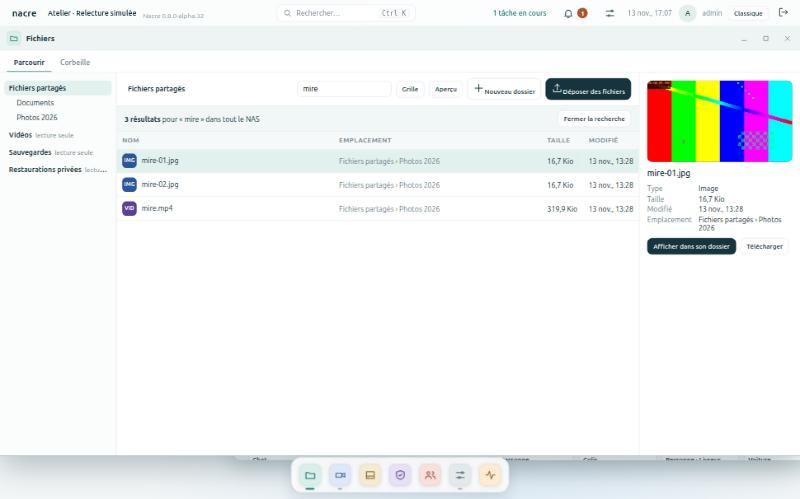
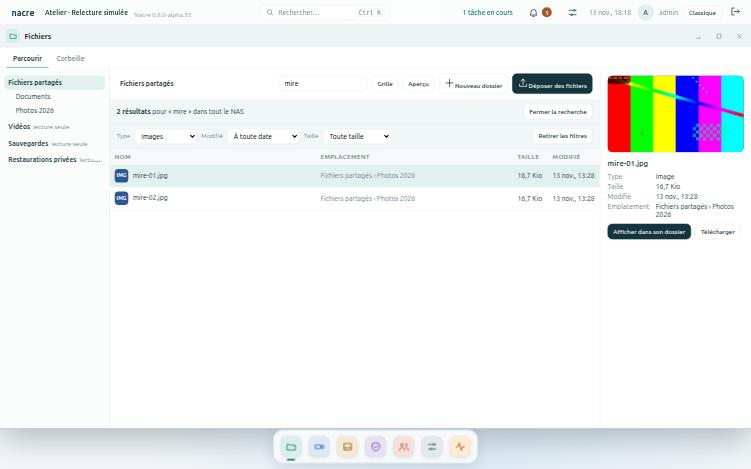
Filtres de la recherche de fichiers (0.8.0-alpha.36) (#70)
Les résultats d'une recherche par nom s'affinent par trois listes : Type,
Modifié, Taille. Un choix relance la même recherche, même nom et même
portée ; les filtres se combinent.

- serveur : paramètres kind, days et min_size de /api/files/search.
  Famille de type d'après l'extension (KINDS), jamais le contenu ; date et
  taille lues seulement pour les éléments dont le nom correspond. Un
  dossier écarté par un filtre reste parcouru. Valeurs mal formées
  refusées.
- Fichiers : ligne de filtres sous le titre des résultats, inactive
  pendant la recherche ; « Retirer les filtres » ; un affinage refusé
  laisse les résultats précédents ; une nouvelle recherche repart sans
  filtre.

Aucun changement de schéma ni de module figé.
321 tests Python et 128 JavaScript.

diff --git a/console/static/files.js b/console/static/files.js
@@ -52,18 +52,26 @@ function fmAsk(){
  if(!fmFindable())return '';
  return `<div class="fm-find"><span>Filtre sur ce dossier. Chercher ce nom ailleurs :</span><span class="fm-grow"></span>${button('fm-find',currentPath?'Dans ses sous-dossiers':'Dans cet espace',null,'small','data-scope="here"')}${button('fm-find','Dans tout le NAS',null,'primary small','data-scope="all"')}</div>`;
 }
+// Filtres des résultats : [paramètre de la recherche, libellé, choix]. Le choix vide ne filtre pas.
+const FM_REFINE=[['kind','Type',[['','Tous les types'],['folder','Dossiers'],['image','Images'],['video','Vidéos'],['audio','Sons'],['document','Documents'],['archive','Archives']]],
+ ['days','Modifié',[['','À toute date'],['1','Depuis 24 heures'],['7','Depuis 7 jours'],['30','Depuis 30 jours'],['365','Depuis un an']]],
+ ['min_size','Taille',[['','Toute taille'],['1048576','Plus de 1 Mio'],['104857600','Plus de 100 Mio'],['1073741824','Plus de 1 Gio']]]];
+function fmRefined(filters){return FM_REFINE.some(([key])=>filters?.[key]);}
+function fmRefineRow(filters,busy){
+ return `<div class="fm-find fm-refine" role="group" aria-label="Affiner les résultats">${FM_REFINE.map(([key,label,choices])=>`<label for="fm-ref-${key}">${label}</label><select id="fm-ref-${key}" data-refine="${key}"${busy?' disabled':''}>${choices.map(([value,text])=>`<option value="${value}"${(filters?.[key]||'')===value?' selected':''}>${text}</option>`).join('')}</select>`).join('')}<span class="fm-grow"></span>${fmRefined(filters)&&!busy?button('fm-refine-clear','Retirer les filtres',null,'small'):''}</div>`;
+}
 function fmFoundList(){
- const {query,where,items,partial,visited,skipped,limit}=fmFound;
+ const {query,where,items,partial,visited,skipped,limit,filters}=fmFound;
  const place=where?(where.path?`dans « ${where.path.split('/').pop()} » et ses sous-dossiers`:`dans ${fmAreaName(where.area)}`):'dans tout le NAS';
  const head=text=>`<div class="fm-find"><span>${text}</span><span class="fm-grow"></span>${button('fm-find-close','Fermer la recherche',null,'small')}</div>`;
- if(!items)return head(`Recherche de « ${esc(query)} » ${esc(place)}…`)+'<p class="fm-hint">Recherche en cours…</p>';
+ if(!items)return head(`Recherche de « ${esc(query)} » ${esc(place)}…`)+fmRefineRow(filters,true)+'<p class="fm-hint">Recherche en cours…</p>';
  const notes=[];
- if(partial==='results')notes.push(`Seuls les ${limit} premiers résultats sont affichés : précisez le nom.`);
+ if(partial==='results')notes.push(`Seuls les ${limit} premiers résultats sont affichés : précisez le nom, ou affinez par type, date ou taille.`);
  else if(partial)notes.push(`Recherche arrêtée après ${visited.toLocaleString('fr-FR')} éléments parcourus : tout n’a pas été vu. Cherchez depuis un dossier pour aller plus loin.`);
  if(skipped.length)notes.push(`Espace indisponible, non parcouru : ${skipped.map(fmAreaName).join(', ')}.`);
  const note=notes.map(text=>`<p class="fm-note">${esc(text)}</p>`).join('');
- const title=head(`<strong>${items.length} résultat${items.length>1?'s':''}</strong> pour « ${esc(query)} » ${esc(place)}`);
- if(!items.length)return title+note+empty(where?'Aucun nom ne correspond ici. Essayez dans tout le NAS.':'Aucun fichier ni dossier ne porte ce nom. Les restaurations ne sont parcourues que depuis leur espace.','folder');
+ const title=head(`<strong>${items.length} résultat${items.length>1?'s':''}</strong> pour « ${esc(query)} » ${esc(place)}`)+fmRefineRow(filters,false);
+ if(!items.length)return title+note+empty(fmRefined(filters)?'Aucun résultat avec ces filtres.':where?'Aucun nom ne correspond ici. Essayez dans tout le NAS.':'Aucun fichier ni dossier ne porte ce nom. Les restaurations ne sont parcourues que depuis leur espace.','folder');
  return title+note+`<table class="fm-table fm-hits"><thead><tr><th>Nom</th><th>Emplacement</th><th>Taille</th><th>Modifié</th></tr></thead><tbody>${items.map((item,index)=>`<tr class="fm-hit ${index===fmHit?'sel':''}" data-hit="${index}"><td>${fmIcon(item)}${esc(item.name)}</td><td>${esc(fmAreaName(item.area)+(item.path?' › '+item.path.split('/').join(' › '):''))}</td><td>${item.directory?'—':sizes(item.size)}</td><td>${date(item.modified)}</td></tr>`).join('')}</tbody></table>`;
 }
 function fmList(){
@@ -133,19 +141,24 @@ async function renderFileManager(){
 }
 function fmQueue(text){fmPending=String(text||'').trim().slice(0,80);}
 // Recherche par nom, lancée à la demande : dans le dossier ouvert et ses sous-dossiers (« here ») ou dans tous les espaces.
-async function fmFind(scope){
- const text=fmFilter.trim();
- if(!fmFindable())return toast('Saisissez au moins deux caractères du nom recherché.',true);
- const generation=sessionGeneration,request=++fmFindRequest,where=scope==='here'?{area,path:currentPath}:null;
+// Avec « refine », la même recherche est relancée avec d’autres filtres : nom et portée ne changent pas.
+async function fmFind(scope,refine=null){
+ const before=refine?fmFound:null;
+ if(refine?!before?.items:!fmFindable())return refine?undefined:toast('Saisissez au moins deux caractères du nom recherché.',true);
+ const text=before?before.query:fmFilter.trim(),where=before?before.where:scope==='here'?{area,path:currentPath}:null;
+ // Seuls les filtres réellement choisis sont gardés.
+ const filters=Object.fromEntries(FM_REFINE.map(([key])=>[key,String(refine?.[key]||'')]).filter(([,value])=>value));
+ const generation=sessionGeneration,request=++fmFindRequest;
  const current=()=>generation===sessionGeneration&&request===fmFindRequest&&page==='files'&&!!fmFound;
- fmSel.clear();fmHit=-1;fmFound={query:text,where,items:null};fmRedraw();
+ fmSel.clear();fmHit=-1;fmFound={query:text,where,filters,items:null};fmRedraw();
  let data;
- try{data=await api('files/search?q='+encodeURIComponent(text)+(where?`&area=${encodeURIComponent(where.area)}&path=${encodeURIComponent(where.path)}`:''));}
- catch(error){if(current()){fmFound=null;fmRedraw();}throw error;}
+ try{data=await api('files/search?q='+encodeURIComponent(text)+(where?`&area=${encodeURIComponent(where.area)}&path=${encodeURIComponent(where.path)}`:'')+FM_REFINE.map(([key])=>filters[key]?`&${key}=${encodeURIComponent(filters[key])}`:'').join(''));}
+ // Une recherche refusée ramène au dossier ; un affinage refusé laisse les résultats précédents.
+ catch(error){if(current()){fmFound=before;fmRedraw();}throw error;}
  if(!current())return;
  // Ne sont gardés que les résultats bien formés, dans un espace que ce compte voit.
  const items=(Array.isArray(data?.items)?data.items:[]).filter(i=>i&&typeof i.name==='string'&&i.name&&typeof i.path==='string'&&fileAreas.some(a=>a.id===i.area));
- fmFound={query:text,where,items,partial:typeof data?.partial==='string'?data.partial:'',visited:Number(data?.visited)||0,skipped:(Array.isArray(data?.skipped)?data.skipped:[]).filter(x=>typeof x==='string'),limit:Number(data?.limit)||items.length};
+ fmFound={query:text,where,filters,items,partial:typeof data?.partial==='string'?data.partial:'',visited:Number(data?.visited)||0,skipped:(Array.isArray(data?.skipped)?data.skipped:[]).filter(x=>typeof x==='string'),limit:Number(data?.limit)||items.length};
  fmRedraw();
 }
 function fmFindClose(){fmFindRequest++;fmFound=null;fmHit=-1;fmRedraw();}
@@ -214,6 +227,7 @@ document.addEventListener('click',async e=>{
    if(action==='fm-move')return fmAskMove();
    if(action==='fm-find')return await fmFind(el.dataset.scope==='here'?'here':'all');
    if(action==='fm-find-close')return fmFindClose();
+   if(action==='fm-refine-clear')return await fmFind('',{});
    if(action==='fm-reveal')return await fmReveal(fmFound?.items?.[fmHit],el.dataset.inside==='1');
    return;
   }
@@ -236,6 +250,13 @@ document.addEventListener('dblclick',e=>{
 });
 // Retoucher le champ quitte les résultats : on revient au dossier, filtré par la saisie.
 document.addEventListener('input',e=>{if(e.target?.id==='fm-filter'&&page==='files'){fmFilter=e.target.value;fmSel.clear();if(fmFound){fmFindRequest++;fmFound=null;fmHit=-1;}fmRedraw();}});
+// Un filtre choisi relance la même recherche ; le choix doit être l’un de ceux proposés.
+document.addEventListener('change',e=>{
+ const key=e.target?.dataset?.refine;if(!key||page!=='files'||!fmFound?.items)return;
+ const value=String(e.target.value||''),id=e.target.id;
+ if(!FM_REFINE.find(r=>r[0]===key)?.[2].some(choice=>choice[0]===value))return;
+ return fmFind('',{...fmFound.filters,[key]:value}).then(()=>$('#'+id)?.focus?.()).catch(error=>{if(error.name!=='AbortError')toast(error.message,true);});
+});
 document.addEventListener('change',e=>{if(e.target?.id==='fm-upload'){const files=[...(e.target.files||[])];e.target.value='';fmSend(files).catch(error=>toast(error.message,true));}});
 document.addEventListener('keydown',e=>{
  if(page!=='files'||!$('#fm')||$('#modal')?.open)return;

diff --git a/tests/test_frontend.js b/tests/test_frontend.js
@@ -1657,6 +1657,39 @@ test('a name search says when it stopped early, drops a late or refused answer a
  // Naviguer dans l'arborescence quitte la recherche.
  f.run('fmFilter="été";');await f.run('fmFind("all")');assert.notEqual(f.run('fmFound'),null);await f.run('fmGo("video","")');assert.deepEqual([f.run('fmFound'),f.run('fmFilter')],[null,'']);
 });
+test('search results can be narrowed by kind, date and size without changing the name or the scope',async()=>{
+ const f=findFixture();await f.run('renderFiles()');f.mount();f.run('currentPath="Docs & co";');f.type('été');
+ const pick=(key,value,id='fm-ref-'+key)=>f.listeners.get('change').at(-2)({target:{dataset:{refine:key},value,id}});
+ const filters=()=>JSON.parse(JSON.stringify(f.run('fmFound&&fmFound.filters')));
+ await f.at('[data-action]',{action:'fm-find',scope:'here'});
+ // Trois listes sous le titre, aucune active, pas de bouton de retrait.
+ assert.match(f.list(),/class="fm-find fm-refine" role="group" aria-label="Affiner les résultats"><label for="fm-ref-kind">Type<\/label><select id="fm-ref-kind" data-refine="kind">/);
+ assert.match(f.list(),/<option value="" selected>Tous les types<\/option><option value="folder">Dossiers<\/option>/);assert.match(f.list(),/id="fm-ref-days" data-refine="days">.*Depuis 7 jours/);assert.match(f.list(),/id="fm-ref-min_size" data-refine="min_size">.*Plus de 1 Gio/);
+ assert.doesNotMatch(f.list(),/fm-refine-clear|style=/);assert.deepEqual(filters(),{});
+ // Un choix relance la même recherche avec le filtre ; le suivant s'ajoute ; nom et portée ne bougent pas.
+ const focused=[];f.elements.set('#fm-ref-kind',{focus(){focused.push('kind');}});
+ await pick('kind','image');
+ assert.equal(f.searches().at(-1),'/api/files/search?q=%C3%A9t%C3%A9&area=fichiers&path=Docs%20%26%20co&kind=image');assert.deepEqual(filters(),{kind:'image'});assert.deepEqual(focused,['kind']);
+ assert.match(f.list(),/<option value="image" selected>Images<\/option>/);assert.match(f.list(),/data-action="fm-refine-clear"/);assert.match(f.list(),/pour « été » dans « Docs &amp; co » et ses sous-dossiers/);
+ await pick('days','7');await pick('min_size','1048576');
+ assert.equal(f.searches().at(-1),'/api/files/search?q=%C3%A9t%C3%A9&area=fichiers&path=Docs%20%26%20co&kind=image&days=7&min_size=1048576');
+ // Revenir au choix vide retire ce filtre seul ; une valeur qui n'est pas proposée ou une clé inconnue ne lance rien.
+ await pick('days','');assert.match(f.searches().at(-1),/&kind=image&min_size=1048576$/);
+ const count=f.searches().length;await pick('kind','exe');await pick('days','8');await pick('autre','1');f.listeners.get('change').at(-2)({target:{id:'fm-upload',files:[]}});assert.equal(f.searches().length,count);
+ // Aucun résultat avec des filtres : le message le dit ; plafond atteint : les filtres sont suggérés.
+ f.state.answer={items:[],partial:null,visited:9,skipped:[],limit:200};await pick('kind','archive');assert.match(f.list(),/Aucun résultat avec ces filtres\./);
+ f.state.answer={items:fmHits.slice(0,1),partial:'results',visited:9,skipped:[],limit:200};await pick('kind','');assert.match(f.list(),/précisez le nom, ou affinez par type, date ou taille\./);
+ // Pendant la recherche, les listes sont inactives et un autre choix est ignoré.
+ let release;f.state.hold=new Promise(resolve=>{release=resolve;});const slow=pick('kind','video');
+ assert.match(f.list(),/data-refine="kind" disabled>/);assert.doesNotMatch(f.list(),/fm-refine-clear/);const during=f.searches().length;await pick('days','30');assert.equal(f.searches().length,during);
+ release();await slow;f.state.hold=null;assert.deepEqual(filters(),{kind:'video',min_size:'1048576'});
+ // Un affinage refusé laisse les résultats précédents ; retirer les filtres relance sans aucun.
+ f.state.status=429;await pick('kind','audio');assert.deepEqual(filters(),{kind:'video',min_size:'1048576'});assert.match(f.elements.get('#toast').textContent,/Deux recherches/);assert.match(f.list(),/fm-hit/);
+ f.state.status=0;await f.at('[data-action]',{action:'fm-refine-clear'});assert.equal(f.searches().at(-1),'/api/files/search?q=%C3%A9t%C3%A9&area=fichiers&path=Docs%20%26%20co');assert.deepEqual(filters(),{});
+ // Une nouvelle recherche repart sans filtre ; hors recherche, un choix ne fait rien.
+ await pick('kind','image');f.type('ét');assert.equal(f.run('fmFound'),null);const idle=f.searches().length;await pick('kind','video');assert.equal(f.searches().length,idle);
+ f.type('été');await f.at('[data-action]',{action:'fm-find',scope:'all'});assert.equal(f.searches().at(-1),'/api/files/search?q=%C3%A9t%C3%A9');assert.deepEqual(filters(),{});
+});
 test('global search offers to look a name up in the files from two characters, and hands it to the Files application',async()=>{
  const f=paletteFixture();f.key('k',{ctrlKey:true});await new Promise(resolve=>setImmediate(resolve));
  // Sans le gestionnaire de fichiers chargé, rien n'est proposé.

diff --git a/console/static/style.css b/console/static/style.css
@@ -119,6 +119,7 @@ dialog:has(#notification-smtp:not([hidden])){width:min(740px,calc(100% - 30px));
 .fm-table th{position:sticky;top:0;background:#f6f9f9;font-size:12px;font-weight:600;color:var(--muted);text-transform:uppercase;letter-spacing:.05em;cursor:pointer;user-select:none}.fm-bar+.fm-table th{top:46px}
 .fm-row,.fm-hit{cursor:default}.fm-row:hover,.fm-hit:hover{background:#f1f6f5}.fm-row.sel,.fm-hit.sel{background:#e2f1ee}
 .fm-find{display:flex;flex-wrap:wrap;align-items:center;gap:8px;padding:8px 14px;background:#f1f7f6;border-bottom:1px solid var(--line);font-size:13px;color:#233b43}.fm-note{margin:0;padding:8px 14px;font-size:12px;color:#6b4e0c;background:#fdf6e3;border-bottom:1px solid #f0e2bb}
+.fm-refine label{font-size:12px;color:var(--muted)}.fm-refine select{font:inherit;font-size:13px;width:auto;padding:5px 8px;border:1px solid var(--line);border-radius:8px;background:white}
 .fm-hits th{cursor:default}.fm-table.fm-hits td:nth-child(1){width:52%;white-space:normal;word-break:break-word}.fm-table.fm-hits td:nth-child(2){width:48%;white-space:normal;word-break:break-word;color:var(--muted)}
 .fm-ic{display:inline-grid;place-items:center;width:26px;height:26px;border-radius:7px;margin-right:9px;font-size:10px;font-weight:700;color:white;vertical-align:middle;background:#8a9aa0}.fm-dir{background:#147d73}.fm-img{background:#2c5796}.fm-vid{background:#5a3f93}.fm-pdf{background:#a8562b}.fm-txt{background:#5f747c}.fm-zip{background:#80591a}.fm-lnk{background:#b08a2e}
 .fm-grid{display:grid;grid-template-columns:repeat(auto-fill,minmax(120px,1fr));gap:10px;padding:14px}.fm-cell{border:1px solid var(--line);border-radius:10px;padding:10px;text-align:center;font-size:13px;overflow:hidden;word-break:break-word}.fm-cell.sel{border-color:var(--green)}.fm-cell .fm-ic{width:54px;height:54px;border-radius:12px;font-size:14px;margin:0 0 6px}.fm-cell small{display:block;color:var(--muted);font-size:12px}

diff --git a/console/file_search.py b/console/file_search.py
@@ -3,6 +3,9 @@
 Parcours direct, sans index : rien à tenir à jour, rien d'écrit sur le NAS. En contrepartie le parcours est borné
 (éléments visités, durée, résultats) et dit quand il s'arrête avant la fin. Il ne suit aucun lien, ignore les noms
 cachés et ne lit jamais le contenu des fichiers.
+
+Trois filtres facultatifs resserrent les résultats : famille de type (d'après l'extension), modification récente, taille
+minimale. Ils s'appliquent après le nom : seuls les éléments dont le nom correspond sont examinés.
 """
 import os
 import threading
@@ -14,6 +17,16 @@ VISITED = 200_000
 SECONDS = 4.0
 DEPTH = 64
 QUERY = 80
+DAYS = 36500
+SIZE = 1 << 50
+# Familles de types, d'après l'extension seulement : le contenu n'est jamais lu.
+KINDS = {
+    'image': ('.jpg', '.jpeg', '.png', '.gif', '.webp', '.heic', '.bmp', '.tif', '.tiff', '.svg'),
+    'video': ('.mp4', '.webm', '.mkv', '.mov', '.avi', '.m4v'),
+    'audio': ('.mp3', '.flac', '.wav', '.ogg', '.m4a', '.aac'),
+    'document': ('.pdf', '.doc', '.docx', '.odt', '.xls', '.xlsx', '.ods', '.ppt', '.pptx', '.odp', '.txt', '.md', '.csv', '.rtf'),
+    'archive': ('.zip', '.tar', '.gz', '.tgz', '.7z', '.rar', '.bz2', '.xz'),
+}
 # Deux parcours à la fois au plus : une recherche ne doit pas monopoliser les disques.
 _slots = threading.BoundedSemaphore(2)
 
@@ -25,6 +38,23 @@ class _Stop(Exception):
 def norm(text):
     """Sans accents ni casse : « ete » trouve « Été »."""
     return ''.join(c for c in unicodedata.normalize('NFD', text) if not unicodedata.combining(c)).casefold()
+
+
+def wanted_kind(kind, plain, directory, link):
+    if kind is None:
+        return True
+    if kind == 'folder':
+        return directory
+    return not directory and not link and plain.endswith(KINDS[kind])
+
+
+def whole(app, text, most, message):
+    """Entier strictement positif et borné, ou None si le filtre est absent."""
+    if text is None or text == '':
+        return None
+    if not isinstance(text, str) or not text.isascii() or not text.isdigit() or not 1 <= int(text) <= most:
+        raise app.Problem(message)
+    return int(text)
 
 
 def _walk(fd, base, state):
@@ -43,8 +73,12 @@ def _walk(fd, base, state):
                 link = entry.is_symlink()
                 directory = not link and entry.is_dir(follow_symlinks=False)
                 plain = norm(name)
-                if all(token in plain for token in state['tokens']):
+                if all(token in plain for token in state['tokens']) and wanted_kind(state['kind'], plain, directory, link):
                     info = entry.stat(follow_symlinks=False)
+                    if (state['since'] is not None and info.st_mtime < state['since']) or (state['size'] is not None and (directory or link or info.st_size < state['size'])):
+                        if directory:
+                            folders.append(name)
+                        continue
                     state['items'].append({'area': state['area'], 'path': '/'.join(base), 'name': name, 'directory': directory, 'link': link,
                                            'size': info.st_size, 'modified': info.st_mtime, 'rank': 0 if plain.startswith(state['tokens'][0]) else 1})
                     if len(state['items']) >= RESULTS:
@@ -71,6 +105,11 @@ def search(app, query, session):
     tokens = norm(text).split() if isinstance(text, str) and len(text) <= QUERY else []
     if sum(len(token) for token in tokens) < 2:
         raise app.Problem('Saisir au moins deux caractères du nom recherché.')
+    kind = query.get('kind') or None
+    if kind is not None and kind != 'folder' and kind not in KINDS:
+        raise app.Problem('Type de fichier inconnu.')
+    days = whole(app, query.get('days'), DAYS, 'Ancienneté invalide : un nombre de jours est attendu.')
+    size = whole(app, query.get('min_size'), SIZE, 'Taille minimale invalide : un nombre d’octets est attendu.')
     admin = session['role'] == 'admin'
     if area is None:
         if path:
@@ -84,7 +123,8 @@ def search(app, query, session):
         spaces = [area]
     if not _slots.acquire(blocking=False):
         raise app.Problem('Deux recherches sont déjà en cours. Réessayer dans un instant.', 429)
-    state = {'tokens': tokens, 'items': [], 'visited': 0, 'deadline': time.monotonic() + SECONDS, 'area': ''}
+    state = {'tokens': tokens, 'items': [], 'visited': 0, 'deadline': time.monotonic() + SECONDS, 'area': '',
+             'kind': kind, 'since': None if days is None else time.time() - days * 86400, 'size': size}
     partial, skipped = None, []
     try:
         for space in spaces:
@@ -104,4 +144,5 @@ def search(app, query, session):
         _slots.release()
     order = {space: index for index, space in enumerate(spaces)}
     items = sorted(state['items'], key=lambda item: (item.pop('rank'), order[item['area']], item['path'].count('/') + bool(item['path']), item['name'].casefold()))
-    return {'query': text, 'items': items, 'partial': partial, 'visited': state['visited'], 'skipped': skipped, 'limit': RESULTS}
+    return {'query': text, 'items': items, 'partial': partial, 'visited': state['visited'], 'skipped': skipped, 'limit': RESULTS,
+            'filters': {'kind': kind, 'days': days, 'min_size': size}}

diff --git a/tests/test_file_search.py b/tests/test_file_search.py
@@ -78,6 +78,37 @@ class FileSearchTests(unittest.TestCase):
         status, _, _ = self.call('GET', '/api/files/search?q=ete', token='inconnu')
         self.assertEqual(status, 401)
 
+    def test_filters_narrow_by_kind_recency_and_size_after_the_name(self):
+        import os, time
+        self.tree()
+        (self.files / 'Photos/été-gros.bin').write_bytes(b'x' * 3000)
+        old = time.time() - 40 * 86400
+        for path in ('été.md', 'Photos/Été 2026'):
+            os.utime(self.files / path, (old, old))
+        names = lambda **scope: [name for _, _, name in self.found('été', **scope)]
+        # Famille de type d'après l'extension, sans casse ; un lien n'appartient à aucune famille, un dossier à la sienne seulement.
+        self.assertEqual(names(kind='image'), ['plage été.jpg'])
+        self.assertEqual(names(kind='video'), ['été au jardin.mp4'])
+        self.assertEqual(names(kind='document'), ['été.md', 'ete-notes.txt', 'facture ÉTÉ.pdf'])
+        self.assertEqual(names(kind='folder'), ['Été 2026'])
+        self.assertEqual(names(kind='archive'), [])
+        # Modification récente : l'ancien fichier et l'ancien dossier sortent, mais le contenu du dossier reste parcouru.
+        self.assertEqual(sorted(names(days='30')), sorted(['ete-notes.txt', 'été-gros.bin', 'été au jardin.mp4', 'lien été', 'facture ÉTÉ.pdf', 'plage été.jpg']))
+        self.assertEqual(len(names(days='60')), 8)
+        # Taille minimale : des fichiers seulement, jamais un dossier ni un lien.
+        self.assertEqual(names(min_size='2048'), ['été-gros.bin'])
+        self.assertEqual(names(min_size='3001'), [])
+        # Les filtres se combinent, avec la portée.
+        self.assertEqual(names(kind='document', days='30'), ['ete-notes.txt', 'facture ÉTÉ.pdf'])
+        self.assertEqual(names(kind='document', days='30', area='fichiers', path='Photos'), ['ete-notes.txt'])
+        status, value = self.find('été', kind='image', days='7', min_size='1')
+        self.assertEqual((status, value['filters']), (200, {'kind': 'image', 'days': 7, 'min_size': 1}))
+        self.assertEqual(self.find('été')[1]['filters'], {'kind': None, 'days': None, 'min_size': None})
+        self.assertEqual(self.find('été', kind='', days='', min_size='')[1]['filters'], {'kind': None, 'days': None, 'min_size': None})
+        for query in ({'kind': 'exe'}, {'kind': 'Image'}, {'kind': 'image,video'}, {'days': '0'}, {'days': '-1'}, {'days': 'abc'}, {'days': '1.5'}, {'days': '36501'},
+                      {'days': '٣'}, {'min_size': '0'}, {'min_size': '1e3'}, {'min_size': str((1 << 50) + 1)}):
+            self.assertEqual(self.find('été', **query)[0], 400, query)
+
     def test_search_stops_at_its_bounds_and_says_so(self):
         import file_search
         self.tree()

diff --git a/docs/REPRISE.md b/docs/REPRISE.md
@@ -4,9 +4,9 @@ Point d’entrée pour reprendre le développement sans relire tout l’historiq
 
 ## État livré
 
-- **Version courante : 0.8.0-alpha.35** — période et tranche horaire dans l’[onglet Événements](DESKTOP.md#surveillance) du bureau, pour toutes les caméras.
-- Versions précédentes : 0.8.0-alpha.34 — [recherche d’événements par tranche horaire](RECORDING-PLAYBACK.md#ne-garder-quune-tranche-horaire) dans la carte d’une caméra ; 0.8.0-alpha.33 — [recherche de fichiers par nom](DESKTOP.md#rechercher-un-fichier-par-son-nom), depuis Fichiers et depuis Ctrl+K ; 0.8.0-alpha.32 — [bureau personnalisable](DESKTOP.md#personnaliser-le-bureau), dernier des sept lots du Bureau ; 0.8.0-alpha.31 — [plusieurs fenêtres](DESKTOP.md#plusieurs-fenêtres) ; 0.8.0-alpha.30 — [gestionnaire de fichiers](DESKTOP.md#fichiers) ; 0.8.0-alpha.29 — [Surveillance en application](DESKTOP.md#surveillance), après la coquille, la cloche et la recherche (alpha.26 à alpha.28).
-- Schéma SQLite inchangé depuis alpha.19. Aucun module figé modifié d’alpha.20 à alpha.35 : ces versions sont distribuables par paquet `.nacre-update`.
+- **Version courante : 0.8.0-alpha.36** — [filtres de la recherche de fichiers](DESKTOP.md#affiner-les-résultats) : type, date de modification, taille.
+- Versions précédentes : 0.8.0-alpha.35 — période et tranche horaire dans l’[onglet Événements](DESKTOP.md#surveillance) du bureau ; 0.8.0-alpha.34 — [recherche d’événements par tranche horaire](RECORDING-PLAYBACK.md#ne-garder-quune-tranche-horaire) dans la carte d’une caméra ; 0.8.0-alpha.33 — [recherche de fichiers par nom](DESKTOP.md#rechercher-un-fichier-par-son-nom), depuis Fichiers et depuis Ctrl+K ; 0.8.0-alpha.32 — [bureau personnalisable](DESKTOP.md#personnaliser-le-bureau), dernier des sept lots du Bureau ; 0.8.0-alpha.31 — [plusieurs fenêtres](DESKTOP.md#plusieurs-fenêtres) ; 0.8.0-alpha.30 — [gestionnaire de fichiers](DESKTOP.md#fichiers) ; 0.8.0-alpha.29 — [Surveillance en application](DESKTOP.md#surveillance), après la coquille, la cloche et la recherche (alpha.26 à alpha.28).
+- Schéma SQLite inchangé depuis alpha.19. Aucun module figé modifié d’alpha.20 à alpha.36 : ces versions sont distribuables par paquet `.nacre-update`.
 - Installation de développement : alpha.35 installée le 13 novembre 2026 par paquet signé (onglet Événements : 752 événements réels sur sept jours, dont 66 entre 22:00 et 06:00 ; heures en UTC tant que le fuseau n’y est pas choisi), après alpha.29 à alpha.34 le même jour (la recherche de fichiers par nom y parcourt 11 408 éléments en 0,15 seconde) ; le Bureau y est l’affichage par défaut. Le bandeau du fuseau y attend toujours le choix de l’administrateur. Auparavant : alpha.25 le même jour, alpha.24 le 12 novembre au soir, après alpha.21 à alpha.23 le même jour et alpha.20 la veille. La purge s’y est appliquée seule : trois copies de retour arrière restent sur cinq. La recherche y a lu les 532 événements réels de la caméra en neuf pages et ouvert un résultat ancien dans la relecture. La carte Détection y a été éprouvée (ajout puis retrait d’un type, sans redémarrage) ; les types suivis y sont revenus aux seules personnes. Le détail et les mises à jour suivantes sont consignés dans [Déploiements](SPARK-DEPLOYMENT.md) ; vérifier la version réellement installée avant d’agir.
 
 ## Reprendre en cinq minutes
@@ -25,7 +25,7 @@ Point d’entrée pour reprendre le développement sans relire tout l’historiq
 - **Bureau.** `console/static/desktop.js` habille les pages sans les modifier : `shell()` lui délègue quand `deskMode()` est vrai, `go()` appelle `deskSync()`, et `renderHome()` délègue à `renderDesk()`. La coquille garde les repères que les pages utilisent (`#content`, `#crumb`, `#topclock`, `#side-host`, `#alert-summary`, `#zone-prompt`). Toute nouvelle page doit être rangée dans une application de `DESK_APPS` : un essai le vérifie. Depuis alpha.31, chaque fenêtre est un cadre de même origine qui charge la console en mode enfant (`deskEmbedded`, `deskChildShell`) : les pages gardent leurs variables globales, isolées par cadre. Le bureau parent garde `page==='home'` et ne dessine que ses widgets ; `go()` passe par `deskRoute` (parent : ouvrir la fenêtre ; enfant : rester dans son application ou remonter au parent). Les appels entre cadres sont des appels de fonctions directs, vérifiés par `deskByChild`. Une variable `let` d’un cadre n’est pas visible de l’autre : n’exposer que des fonctions. Ne jamais élargir `frame-ancestors` au-delà de `'self'`.
 - **Cloche.** `console/static/bell.js` lit `/api/alerts` (administrateurs) et `/api/jobs` par `refreshStatus()`, qui remplace l’appel direct à `refreshAlertBadge()` : cloche en affichage Bureau, bouton d’alertes en classique. Aucun état n’est stocké côté serveur.
 - **Recherche.** `console/static/palette.js` : index bâti à chaque frappe depuis `DESK_APPS` (donc filtré par rôle), la liste `PALETTE_TOPICS` des réglages nommés, et les caméras et espaces lus à l’ouverture. Toute page ajoutée à une application y apparaît seule ; un réglage qu’on cherche sous un autre nom s’ajoute à `PALETTE_TOPICS`. Dès deux caractères, `paletteResults()` ajoute l’entrée qui passe le nom à Fichiers (`fmQueue`, intention `find` du bureau).
-- **Recherche de fichiers.** `console/file_search.py` (`/api/files/search`) : parcours direct par descripteurs, sans index ni écriture, borné par `RESULTS`, `VISITED`, `SECONDS` et deux parcours simultanés. Côté navigateur, `fmFound` dans `files.js` : les résultats remplacent la liste, sans sélection multiple ni action d’écriture.
+- **Recherche de fichiers.** `console/file_search.py` (`/api/files/search`) : parcours direct par descripteurs, sans index ni écriture, borné par `RESULTS`, `VISITED`, `SECONDS` et deux parcours simultanés. Côté navigateur, `fmFound` dans `files.js` : les résultats remplacent la liste, sans sélection multiple ni action d’écriture. Filtres `kind`, `days`, `min_size` : familles d’extensions `KINDS` côté serveur, choix proposés `FM_REFINE` côté navigateur ; un nouveau choix s’ajoute aux deux.
 - **Surveillance du bureau.** `console/static/surveillance.js` : `renderSurveillance()` lui délègue en affichage Bureau. Une application à page unique peut déclarer des `views` dans `DESK_APPS` : ses onglets changent la vue (`deskViewOf`, `deskSetView`), pas la page, ce qui garde valides les gardes `page==='camera'` des cartes existantes. Les vues qui montrent une caméra posent `cameraDetail=true`, attendu par la relecture, la recherche et la détection. Le mur utilise `/api/camera/snapshot`, jamais `/api/camera/live`.
 - **Fichiers du bureau.** `console/static/files.js` ; `renderFiles()` lui délègue en affichage Bureau. Côté serveur, `move_entries` (route `/api/move`) et `Handler.archive` (route `/api/archive`) passent par `folder()` et `rename_noreplace` comme le reste : descripteurs de dossier, jamais de lien suivi, jamais de remplacement. L’aperçu est le téléchargement avec `inline=1`, limité à `PREVIEW_TYPES` ; ne jamais y ajouter HTML ni SVG. Tout essai sur les fichiers se fait dans un espace temporaire.
 - **Préférences du bureau.** `console/desk_prefs.py` : widgets et fond par compte dans `settings` (clé `desk:<compte>`), lecture tolérante, écriture stricte. `/api/desk` est la seule écriture ouverte aux comptes en lecture seule ; ne pas élargir cette exception. Les fenêtres sont mémorisées par navigateur (`localStorage`, clé `nacre-windows:<compte>`) par `deskRemember`, relues par `deskRestore` à l’ouverture du bureau ; après une restauration, `deskTouched` reste faux pour ne réécrire ni l’adresse ni la mémoire avant une action de l’utilisateur.
@@ -55,7 +55,7 @@ Point d’entrée pour reprendre le développement sans relire tout l’historiq
 Cap validé le 13 novembre 2026 : faire de l’interface un **bureau dans le navigateur**, en sept lots livrables par paquet, une release par lot. Les sept lots sont faits, d’alpha.26 à alpha.32 : coquille, centre de notifications, recherche globale, Surveillance, gestionnaire de fichiers, plusieurs fenêtres, bureau personnalisable. Le cap est atteint, et la recherche de fichiers par nom l’a prolongé en alpha.33 ; la suite se choisit parmi les étapes ci-dessous et les limites ouvertes. Chaque choix d’apparence passe par une maquette validée avant le code. Les étapes ci-dessous restent valables et s’y insèrent.
 
 1. **Programmation des snapshots natifs** avec simulation de rétention (issue 4). Modules natifs figés : campagne en VM et installation accompagnée.
-2. **Filtres de la recherche de fichiers** (type, date, taille) : complète alpha.33 sans index, distribuable par paquet.
+2. **Recherche de fichiers par filtres seuls**, sans nom (par exemple les vidéos de plus de 1 Gio) : le serveur sait déjà filtrer, il reste l’entrée dans l’interface et une borne adaptée ; distribuable par paquet.
 3. **Suite des événements dans l’onglet Événements du bureau** (au-delà des soixante par caméra) : la recherche serveur pagine déjà, il reste à fusionner les pages de plusieurs caméras ; distribuable par paquet.
 
 Le premier lève une limite structurante mais demande une installation accompagnée ; les deux autres restent livrables par le navigateur.

diff --git a/docs/DESKTOP.md b/docs/DESKTOP.md
@@ -203,6 +203,22 @@ Depuis la version 0.8.0-alpha.33, le champ en haut de Fichiers sert à deux chos
 
 Chaque résultat donne son emplacement. Un clic le sélectionne : l’aperçu, le téléchargement et **Afficher dans son dossier** sont dans le panneau de droite ; un double-clic ouvre le dossier trouvé, ou le dossier qui contient le fichier, celui-ci sélectionné. Renommer, déplacer et mettre en corbeille se font là, pas dans la liste des résultats. Retoucher le champ, **Fermer la recherche**, Échap ou un clic dans l’arborescence ramènent au dossier.
 
+#### Affiner les résultats
+
+Depuis la version 0.8.0-alpha.36, trois listes suivent le titre des résultats. Un choix relance la même recherche, avec le même nom et la même portée.
+
+| Liste | Choix | Ce qui est gardé |
+| --- | --- | --- |
+| **Type** | Dossiers, Images, Vidéos, Sons, Documents, Archives | Les éléments de cette famille, reconnue à l’extension du nom. |
+| **Modifié** | Depuis 24 heures, 7 jours, 30 jours, un an | Les éléments modifiés depuis ce délai. |
+| **Taille** | Plus de 1 Mio, 100 Mio, 1 Gio | Les fichiers au moins aussi gros ; jamais un dossier. |
+
+Les filtres se combinent ; **Retirer les filtres** les enlève tous, et une nouvelle recherche repart sans filtre. Quand un nom très courant atteint le plafond de 200 résultats, un filtre permet de voir le reste.
+
+- **Le type vient de l’extension**, pas du contenu : un fichier renommé change de famille. Un lien symbolique n’appartient à aucune famille.
+- **La date d’un dossier est la sienne** : un dossier ancien est écarté par « Modifié », mais son contenu reste parcouru.
+- **Il faut toujours un nom** : les filtres resserrent une recherche, ils ne la remplacent pas. Chercher « tous les gros fichiers » sans nom n’est pas possible.
+
 Ce qu’il faut savoir :
 
 - **Le nom seulement**, jamais le contenu. Accents et majuscules ne comptent pas ; chaque mot saisi doit figurer dans le nom, dans n’importe quel ordre. « .pdf » trouve les PDF.
@@ -212,7 +228,7 @@ Ce qu’il faut savoir :
 - **Liens symboliques jamais suivis, fichiers cachés ignorés** : un lien peut être nommé parmi les résultats, ce qu’il désigne n’est pas parcouru.
 - **Un espace indisponible** n’empêche pas la recherche ; il est signalé au-dessus des résultats.
 
-Limites de cette étape : pas de recherche dans le contenu, pas de filtre par date, taille ou type, pas de copie, pas de liens de partage, pas d’envoi de dossiers entiers par glisser-déposer, pas d’avance rapide dans l’aperçu vidéo. L’arborescence montre les dossiers déjà ouverts, pas tout le disque d’avance.
+Limites de cette étape : pas de recherche dans le contenu, pas de recherche par filtres seuls sans nom, pas de dates ni de tailles libres, pas de copie, pas de liens de partage, pas d’envoi de dossiers entiers par glisser-déposer, pas d’avance rapide dans l’aperçu vidéo. L’arborescence montre les dossiers déjà ouverts, pas tout le disque d’avance.
 
 ## Revenir à l’affichage classique
 
@@ -234,6 +250,8 @@ Recherche globale (alpha.28), quatre essais JavaScript : index limité aux pages
 Événements par période et tranche horaire (alpha.35), un essai JavaScript : aucune période envoyée par défaut, formulaire prérempli par la réponse, total additionné sur les caméras lues ; période à l’envers, tranche incomplète ou identique refusées sans requête ; période et tranche envoyées à chaque caméra et reprises dans le résumé ; refus du serveur expliqué une fois sans accuser les caméras ; retour aux sept derniers jours. Sur le banc à deux caméras simulées : 50 événements par défaut, 7 entre 22:00 et 06:00, refus d’une tranche à moitié remplie et d’une date trop ancienne.
 
 Surveillance (alpha.29), cinq essais JavaScript : mur en images fixes sans aucun direct, noms échappés, page classique conservée ; caméra agrandie seule à recevoir le direct, caméras inconnues et réponses tardives sans effet ; événements fusionnés du plus récent au plus ancien, caméra en échec nommée, filtres sans nouvelle requête, ouverture de la relecture au bon événement ; une ligne de frise par caméra et lecture à l’heure cliquée ; réglages sans boutons pour la lecture seule. Sur le banc à deux caméras simulées : mur, agrandissement avec direct et pilotage, 48 événements synthétiques filtrés, ouverture d’un événement dans la relecture avec lecture de l’extrait, clic sur la ligne de l’autre caméra, onglet Réglages.
+
+Filtres de la recherche de fichiers (alpha.36). Un essai Python sur espace temporaire : famille de type d’après l’extension, dossiers à part, liens dans aucune famille ; modification récente, dossier ancien écarté mais parcouru ; taille minimale sans dossier ni lien ; filtres combinés entre eux et avec la portée ; douze demandes mal formées refusées. Un essai JavaScript : trois listes sous le titre, choix ajoutés à la même recherche, valeur non proposée ignorée, listes inactives pendant la recherche, affinage refusé sans perdre les résultats, retrait des filtres, nouvelle recherche sans filtre. Sur le banc, avec le vrai serveur : « mire » donne 3 résultats, 2 images et 1 vidéo ; « 2026 » donne 1 dossier, 1 document, aucun fichier de plus de 1 Mio.
 
 Recherche de fichiers (alpha.33). Trois essais Python sur espace temporaire : noms trouvés sans accents ni casse dans tous les espaces du compte, ordre des résultats, liens nommés jamais suivis, fichiers cachés et restaurations hors du parcours ; portée par espace et par dossier, restaurations et volumes refusés au lecteur, chemins sortants et saisies trop courtes refusés ; arrêt annoncé à chaque borne, troisième recherche simultanée refusée, espace indisponible signalé. Trois essais JavaScript : filtre local sans requête, recherche à la demande ici ou partout, résultats mal formés ou hors des espaces du compte écartés, aperçu et téléchargement depuis l’emplacement du résultat, ouverture du dossier avec l’élément sélectionné ; arrêt anticipé annoncé, réponse tardive ou refusée sans effet ; entrée de la recherche globale. Sur le banc, avec le vrai serveur : « mire » dans tout le NAS, aperçu d’un résultat, affichage dans son dossier, « contrat » depuis Ctrl+K, « 2026 » dans les sous-dossiers de Documents, refus d’une saisie d’un caractère et d’un chemin sortant.
 

diff --git a/docs/ROADMAP.md b/docs/ROADMAP.md
@@ -14,7 +14,7 @@ Les versions futures sont des objectifs sans date promise. Chaque étape demande
 
 ## Bureau 0.8.0-alpha.26
 
-Premier lot du cap « un bureau dans le navigateur » : coquille, sept applications à onglets, dock, widgets, affichage classique conservé. [Guide et limites](DESKTOP.md). Le [centre de notifications](DESKTOP.md#centre-de-notifications) a suivi en alpha.27. La [recherche globale](DESKTOP.md#recherche-globale) est arrivée en alpha.28. [Surveillance en application](DESKTOP.md#surveillance) a suivi en alpha.29. Le [gestionnaire de fichiers](DESKTOP.md#fichiers) est arrivé en alpha.30. Les [fenêtres multiples](DESKTOP.md#plusieurs-fenêtres) sont arrivées en alpha.31. Le [bureau personnalisable](DESKTOP.md#personnaliser-le-bureau) a clos le cap en alpha.32. La [recherche de fichiers par nom](DESKTOP.md#rechercher-un-fichier-par-son-nom) l’a prolongé en alpha.33. Prolongements possibles : Surveillance en application (mur de caméras), plusieurs fenêtres, gestionnaire de fichiers, bureau personnalisable.
+Premier lot du cap « un bureau dans le navigateur » : coquille, sept applications à onglets, dock, widgets, affichage classique conservé. [Guide et limites](DESKTOP.md). Le [centre de notifications](DESKTOP.md#centre-de-notifications) a suivi en alpha.27. La [recherche globale](DESKTOP.md#recherche-globale) est arrivée en alpha.28. [Surveillance en application](DESKTOP.md#surveillance) a suivi en alpha.29. Le [gestionnaire de fichiers](DESKTOP.md#fichiers) est arrivé en alpha.30. Les [fenêtres multiples](DESKTOP.md#plusieurs-fenêtres) sont arrivées en alpha.31. Le [bureau personnalisable](DESKTOP.md#personnaliser-le-bureau) a clos le cap en alpha.32. La [recherche de fichiers par nom](DESKTOP.md#rechercher-un-fichier-par-son-nom) l’a prolongé en alpha.33, avec ses [filtres](DESKTOP.md#affiner-les-résultats) en alpha.36. Prolongements possibles : Surveillance en application (mur de caméras), plusieurs fenêtres, gestionnaire de fichiers, bureau personnalisable.
 
 ## Fuseau horaire 0.8.0-alpha.25
 

diff --git a/CHANGELOG.md b/CHANGELOG.md
@@ -1,5 +1,9 @@
 # Changelog
 
+## 0.8.0-alpha.36 — Filtres de la recherche de fichiers
+
+Les résultats d’une recherche par nom dans **Fichiers** s’affinent par trois listes : **Type** (dossiers, images, vidéos, sons, documents, archives), **Modifié** (depuis 24 heures, 7 jours, 30 jours, un an) et **Taille** (plus de 1 Mio, 100 Mio, 1 Gio). Un choix relance la même recherche, même nom et même portée ; les filtres se combinent et **Retirer les filtres** les enlève tous. Ils permettent aussi de dépasser le plafond de 200 résultats d’un nom très courant. Le type se déduit de l’extension, jamais du contenu ; date et taille ne sont lues que pour les éléments dont le nom correspond. Aucun changement de schéma ni de module figé. 321 tests Python et 128 JavaScript. [Guide et limites](docs/DESKTOP.md#affiner-les-résultats).
+
 ## 0.8.0-alpha.35 — Période et tranche horaire dans l’onglet Événements
 
 L’onglet **Événements** de Surveillance, qui réunit toutes les caméras, reçoit les mêmes champs que la recherche d’une caméra : une **période** (les sept derniers jours par défaut) et une **tranche horaire** facultative. « Entre 22:00 et 06:00 » montre d’un coup ce que chaque caméra a vu la nuit. Un résumé donne le nombre d’événements comptés sur la période pour l’ensemble des caméras ; **Sept derniers jours** revient à l’affichage d’origine. Une période que le serveur refuse est expliquée une fois, sans mettre les caméras en cause. Aucun changement côté serveur, de schéma ni de module figé. 320 tests Python et 127 JavaScript. [Guide et limites](docs/DESKTOP.md#surveillance).

diff --git a/docs/VALIDATION.md b/docs/VALIDATION.md
@@ -1,5 +1,9 @@
 # Validation
 
+## Filtres de la recherche de fichiers — 0.8.0-alpha.36
+
+321 tests Python et 128 JavaScript. Détail dans le [guide du Bureau](DESKTOP.md#validation).
+
 ## Période et tranche horaire dans l’onglet Événements — 0.8.0-alpha.35
 
 320 tests Python et 127 JavaScript. Détail dans le [guide du Bureau](DESKTOP.md#validation).
